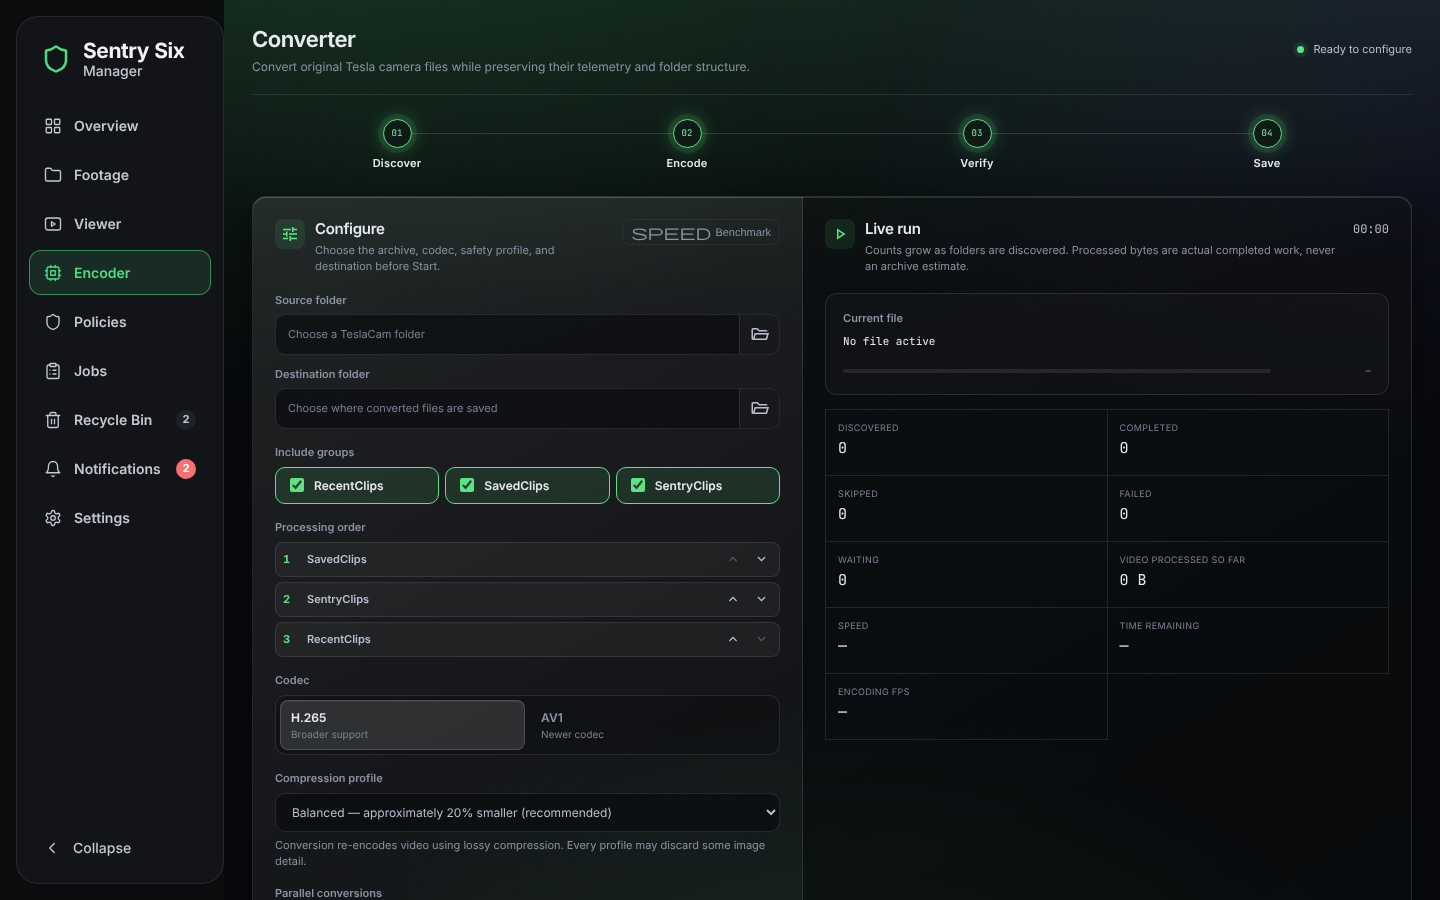
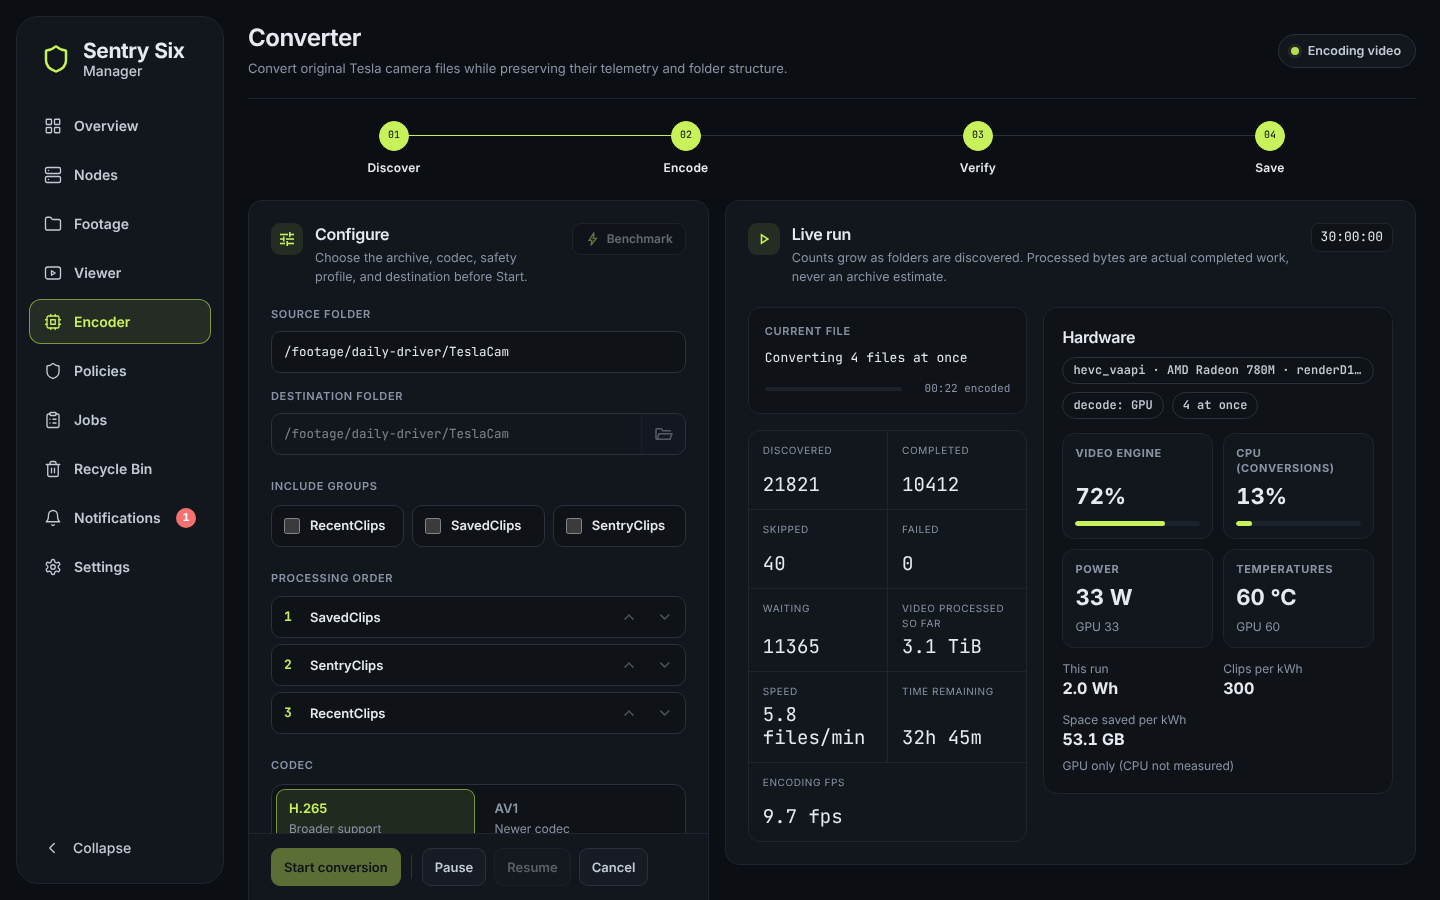
Encoder: one-line actions after a run, Live run without stats, steady highlights
- Retry failed after a run: where the five buttons do not fit on one line
  (the settings card beside a wide Live run, about 1290-1600px windows),
  the disabled Pause, Resume and Cancel step aside, so the bar keeps one
  line and its height.
- The server's numbers cannot be read (/api/stats fails): the run's
  progress takes the whole of Live run instead of leaving the panel's
  column empty; the panel and its column come back with the numbers.
- A highlight in the run's counters (Waiting, Time remaining, ...) is kept
  while updates arrive and the numbers catch up once it is gone; unchanged
  text is no longer rewritten.
- Safari on phones: the long Compression profile and Verification options
  no longer make the page scroll sideways.
- Docs: the README's Encoder picture shows a running conversion with the
  progress and the Hardware panel side by side; the plan and the mockup
  say the per-clip rows were removed and the panel moved.

diff --git a/test/screens.test.js b/test/screens.test.js
@@ -706,6 +706,57 @@ test('Hardware panel: never shorter while a job runs; back to its own height whe
   assert.equal(panel.style.minHeight, '700px');
 });
 
+test('Hardware panel: the server\'s numbers cannot be read: Live run gives its column to the progress until they can', async (t) => {
+  const { startHardwarePanel } = await hardware();
+  t.mock.timers.enable({ apis: ['setTimeout'] });
+  const classes = new Set();
+  const panel = { hidden: true, innerHTML: '', style: { minHeight: '' }, offsetHeight: 400, closest: () => null, parentElement: null, classList: { toggle: (name, on) => (on ? classes.add(name) : classes.delete(name)) } };
+  const doc = { visibilityState: 'visible', getElementById: (id) => (id === 'converterHardware' ? panel : null), addEventListener() {} };
+  const win = { location: { origin: 'https://nas' }, addEventListener() {}, innerWidth: 1440 };
+  let answer = { ok: false, status: 500 };
+  const fetchImpl = async () => {
+    if (answer === 'offline') throw new TypeError('Failed to fetch');
+    return answer;
+  };
+  const settle = async () => { for (let i = 0; i < 10; i++) await Promise.resolve(); };
+  const poll = async () => { t.mock.timers.tick(2000); await settle(); };
+  // before the first answer the column is kept for the panel
+  startHardwarePanel({ doc, win, fetchImpl });
+  assert.equal(classes.has('nd-hw-off'), false);
+  await settle();
+  assert.equal(panel.hidden, true);
+  assert.equal(classes.has('nd-hw-off'), true, 'a failed answer: the progress takes the width');
+  answer = 'offline';
+  await poll();
+  assert.equal(classes.has('nd-hw-off'), true);
+  // the numbers come back: the panel and its column with them
+  answer = { ok: true, json: async () => sample() };
+  await poll();
+  assert.equal(panel.hidden, false);
+  assert.equal(classes.has('nd-hw-off'), false);
+  // a failure later keeps the last numbers where they are
+  answer = { ok: false, status: 503 };
+  await poll();
+  assert.equal(panel.hidden, false);
+  assert.equal(classes.has('nd-hw-off'), false);
+  const css = fs.readFileSync(path.join(REPO, 'src/renderer/styles/encoderPage.css'), 'utf8');
+  assert.match(css, /@container live-run \(min-width: 620px\) \{[^@]*\.converter-live-split:has\(> \.nd-hw-off\[hidden\]\) \{ grid-template-columns: minmax\(0, 1fr\); \}/);
+});
+
+test('Encoder: after a run with failures the actions stay on one line; long options never widen a phone\'s page', () => {
+  const css = fs.readFileSync(path.join(REPO, 'src/renderer/styles/encoderPage.css'), 'utf8');
+  // Retry failed shows only after a run; where five buttons do not fit,
+  // the three that cannot be used then (Pause, Resume, Cancel) step aside
+  assert.match(css, /\n#converterRetry:disabled \{ display: none; \}/);
+  assert.match(css, /\n\.converter-actions \{ container: run-actions \/ inline-size; \}/);
+  assert.match(css, /@container run-actions \(max-width: 519px\) \{\s*\.converter-actions:has\(#converterRetry:not\(:disabled\)\) \.converter-button:disabled \{ display: none; \}/);
+  const page = fs.readFileSync(path.join(REPO, 'src/renderer/encoder.html'), 'utf8');
+  const actions = page.slice(page.indexOf('<div class="converter-actions">'), page.indexOf('</form>'));
+  for (const id of ['converterStart', 'converterPause', 'converterResume', 'converterCancel', 'converterRetry']) assert.match(actions, new RegExp(`id="${id}"`));
+  // Safari counts a long option's text as part of the page: the select clips it
+  assert.match(css, /\nselect\.converter-select \{[^}]*overflow: hidden;/);
+});
+
 test('Hardware panel: asks every 2 s only while it can be seen', async (t) => {
   const { startHardwarePanel } = await hardware();
   t.mock.timers.enable({ apis: ['setTimeout'] });

diff --git a/test/encoderControls.test.js b/test/encoderControls.test.js
@@ -20,13 +20,14 @@ function el(init = {}) {
   }, init);
 }
 
-async function controller({ jobConcurrency = 5 } = {}) {
+async function controller({ jobConcurrency = 5, extra = {} } = {}) {
   const { createFootageConverterController } = await import(MODULE);
   const elements = {
     groupOptions: [], codecOptions: [], profileOptions: [], outputOptions: [], pipelineStages: [], orderRows: [],
     autoEnabled: el(), autoInterval: el({ value: '60' }), autoWindowEnabled: el(), autoStart: el({ value: '1' }), autoEnd: el({ value: '6' }),
     autoOffPeak: el(), autoHoldManual: el(), autoKeepRunning: el(), autoLogin: el(), autoStatus: el(),
-    concurrency: el({ value: String(jobConcurrency) }), concurrencyCustom: el({ value: '12' }), concurrencyCustomRow: el(), startButton: el()
+    concurrency: el({ value: String(jobConcurrency) }), concurrencyCustom: el({ value: '12' }), concurrencyCustomRow: el(), startButton: el(),
+    ...extra
   };
   const sent = { auto: [], conc: [] };
   let autoState = { settings: { enabled: false, intervalMinutes: 60, window: null, holdManual: false, keepRunning: false, openAtLogin: false, config: null }, status: {} };
@@ -91,4 +92,43 @@ test('quick changes: the last choice is what the job ends with', async () => {
   elements.concurrency.fire('change');
   await settle(); await settle();
   assert.deepEqual(sent.conc.at(-1), ['job-1', 4]);
+});
+
+test('a highlighted counter keeps its number while the run goes on, and catches up once the highlight is gone', async () => {
+  const listeners = {};
+  let selection = { isCollapsed: true, rangeCount: 0 };
+  const doc = { addEventListener: (type, fn) => { (listeners[type] ||= []).push(fn); }, getSelection: () => selection };
+  const inside = { text: true };
+  let writes = 0;
+  let text = '0';
+  const waiting = el({ ownerDocument: doc, contains: (node) => node === inside });
+  Object.defineProperty(waiting, 'textContent', { get: () => text, set: (v) => { writes++; text = v; } });
+  const { snapshot, settle } = await controller({ extra: { countWaiting: waiting } });
+  const job = (revision, queued) => ({ jobId: 'job-1', revision, snapshot: { id: 'job-1', revision, state: 'encoding', config: { concurrency: 5 }, itemStateCounts: { queued }, items: [] } });
+  snapshot(job(20, 500));
+  await settle();
+  assert.equal(waiting.textContent, '500');
+  // the same number again: the text (and a highlight in it) is left alone
+  const before = writes;
+  snapshot(job(21, 500));
+  await settle();
+  assert.equal(writes, before, 'not rewritten');
+  // the reader highlights it; the next update has another number
+  selection = { isCollapsed: false, rangeCount: 1, getRangeAt: () => ({ commonAncestorContainer: inside }) };
+  snapshot(job(22, 480));
+  await settle();
+  assert.equal(waiting.textContent, '500', 'the highlight stays');
+  assert.equal(writes, before);
+  // the highlight is gone: the new number at once
+  selection = { isCollapsed: true, rangeCount: 0 };
+  listeners.selectionchange.forEach((fn) => fn());
+  assert.equal(waiting.textContent, '480', 'caught up at once');
+  // the mouse button held down on it (a highlight about to start)
+  listeners.pointerdown.forEach((fn) => fn({ button: 0, target: inside }));
+  snapshot(job(23, 470));
+  await settle();
+  assert.equal(waiting.textContent, '480');
+  listeners.pointerup.forEach((fn) => fn({}));
+  await settle();
+  assert.equal(waiting.textContent, '470');
 });

diff --git a/src/renderer/styles/encoderPage.css b/src/renderer/styles/encoderPage.css
@@ -371,6 +371,10 @@ select.converter-select {
     text-overflow: ellipsis;
     appearance: none;
     cursor: pointer;
+    /* Safari counts a long option's text past the box ("Quick — checks
+       streams, length, …") as part of the page, which then scrolls sideways
+       on phones */
+    overflow: hidden;
 }
 
 .converter-select:hover:not(:disabled):not(:focus-visible) { border-color: var(--fd-border-hover); }
@@ -785,6 +789,16 @@ select.converter-select {
 /* Retry failed only when there is something to retry */
 #converterRetry:disabled { display: none; }
 
+/* Retry failed comes only after a run, when Pause, Resume and Cancel cannot
+   be used. Where all five do not fit on one line (the settings card beside
+   a wide Live run: about 480px of buttons), those three step aside for it,
+   so the bar keeps its one line and its height. */
+.converter-actions { container: run-actions / inline-size; }
+
+@container run-actions (max-width: 519px) {
+    .converter-actions:has(#converterRetry:not(:disabled)) .converter-button:disabled { display: none; }
+}
+
 .converter-button-quiet { min-height: 32px; }
 .converter-action-divider { height: 24px; background: var(--fd-border-strong); }
 
@@ -795,7 +809,9 @@ select.converter-select {
 /* The progress (current file and the counters) and the Hardware panel: side
    by side when Live run is wide enough, so what is left shows without
    scrolling; else one under the other, the progress first. Each column keeps
-   its place while the other is empty (the panel before its first numbers). */
+   its place while the other is empty (the panel before its first numbers);
+   when the server's numbers cannot be read (nd-hw-off, hardwarePanel.js),
+   the progress takes the whole width until they can. */
 .converter-live-split {
     display: grid;
     grid-template-columns: minmax(0, 1fr);
@@ -806,6 +822,7 @@ select.converter-select {
 /* (the panel a little wider: its tiles are two to a row) */
 @container live-run (min-width: 620px) {
     .converter-live-split { grid-template-columns: minmax(0, 4fr) minmax(0, 5fr); }
+    .converter-live-split:has(> .nd-hw-off[hidden]) { grid-template-columns: minmax(0, 1fr); }
 }
 
 .converter-progress {
@@ -958,7 +975,9 @@ select.converter-select {
 
 /* --------------------------------------------------------------------------
    Hardware (scripts/features/hardwarePanel.js): what the run uses and what
-   it costs; the approved mockup, docs/plans/server-monitor-mock.js
+   it costs. Started from the approved mockup (docs/plans/server-monitor-mock.js);
+   since then, at the owner's request, it has no row per clip and sits beside
+   the run's progress instead of above it.
    -------------------------------------------------------------------------- */
 .nd-hw {
     min-width: 0;

diff --git a/src/renderer/scripts/features/footageConverter.js b/src/renderer/scripts/features/footageConverter.js
@@ -163,8 +163,54 @@ function selected(options, dataKey, fallback) {
     return options.find((entry) => entry.checked)?.dataset?.[dataKey] || fallback;
 }
 
+// Text being highlighted (or about to be, with the button held down on it)
+// keeps its words: the run's counters change every second or two, and a new
+// value would take the highlight away before it could be copied. The new
+// value waits and shows as soon as the highlight is gone.
+const heldText = new Map();
+const watchedDocuments = new WeakSet();
+let pressedNode = null;
+
+function highlighted(element) {
+    if (pressedNode && element.contains?.(pressedNode) === true) return true;
+    const selection = element.ownerDocument?.getSelection?.();
+    if (!selection || selection.isCollapsed || !selection.rangeCount) return false;
+    const range = selection.getRangeAt(0);
+    return element.contains?.(range.commonAncestorContainer) === true || range.intersectsNode?.(element) === true;
+}
+
+function releaseHeldText() {
+    for (const [element, text] of heldText) {
+        if (highlighted(element)) continue;
+        heldText.delete(element);
+        if (element.textContent !== text) element.textContent = text;
+    }
+}
+
+function watchHighlights(documentApi) {
+    if (!documentApi?.addEventListener || watchedDocuments.has(documentApi)) return;
+    watchedDocuments.add(documentApi);
+    documentApi.addEventListener('pointerdown', (event) => { pressedNode = event.button === 0 ? event.target : null; }, true);
+    for (const type of ['pointerup', 'pointercancel']) {
+        documentApi.addEventListener(type, () => {
+            pressedNode = null;
+            setTimeout(releaseHeldText, 0);
+        }, true);
+    }
+    documentApi.addEventListener('selectionchange', () => { if (!pressedNode) releaseHeldText(); });
+}
+
 function setText(element, value) {
-    if (element) element.textContent = value == null ? '' : String(value);
+    if (!element) return;
+    const text = value == null ? '' : String(value);
+    watchHighlights(element.ownerDocument);
+    if (highlighted(element)) {
+        heldText.set(element, text);
+        return;
+    }
+    heldText.delete(element);
+    // the same words leave the text (and a highlight in it) alone
+    if (element.textContent !== text) element.textContent = text;
 }
 
 function setHidden(element, hidden) {

diff --git a/src/renderer/scripts/features/hardwarePanel.js b/src/renderer/scripts/features/hardwarePanel.js
@@ -275,8 +275,16 @@ export function startHardwarePanel({ doc = document, win = window, fetchImpl = (
             last = html;
         }
         panel.hidden = !html;
-        if (html) hold();
+        if (html) {
+            unavailable(false);
+            hold();
+        }
     };
+    // Live run keeps the panel's column while it waits for the first answer.
+    // An answer with nothing to show (the server's numbers cannot be read)
+    // gives the column back to the run's progress, until a later poll has
+    // numbers again (encoderPage.css: .nd-hw-off).
+    const unavailable = (on) => panel.classList?.toggle?.('nd-hw-off', on);
     const catchUp = () => {
         if (waiting !== null && !selecting()) show(waiting);
     };
@@ -312,6 +320,7 @@ export function startHardwarePanel({ doc = document, win = window, fetchImpl = (
             clearTimeout(giveUp);
             busy = false;
         }
+        if (panel.hidden && waiting === null) unavailable(true);
         if (wanted()) timer = setTimeout(poll, POLL_MS);
     }
 

diff --git a/docs/plans/server-monitor-mock.js b/docs/plans/server-monitor-mock.js
@@ -1,4 +1,7 @@
 // Mockup only: injects sample "Server" and "Hardware" panels into the real pages.
+// The Hardware panel as first approved: the app's has no row per clip any more
+// (removed at the owner's request) and sits beside the run's progress
+// (docs/plans/server-monitor.md).
 const spark = (pts, w = 220, h = 40, color = 'var(--accent)') => {
   const max = Math.max(...pts), min = Math.min(...pts);
   const xy = pts.map((p, i) => `${(i / (pts.length - 1)) * w},${h - 3 - ((p - min) / (max - min || 1)) * (h - 6)}`).join(' ');

diff --git a/docs/plans/server-monitor.md b/docs/plans/server-monitor.md
@@ -9,7 +9,9 @@ Goal: one place in the app that shows what the server is doing, on any
 hardware, so nobody needs Glances, Netdata or other tools. Everything stays
 inside the one container; nothing leaves the server; no extra services.
 
-Mockup (sample numbers; markup and CSS in `server-monitor-mock.js`):
+Mockup (sample numbers; markup and CSS in `server-monitor-mock.js`; the
+Encoder panel as first approved, see the notes under "Encoder" for what
+changed since):
 
 ![Overview: Server section](server-monitor-overview.png)
 ![Encoder: Hardware panel](server-monitor-encoder.png)
@@ -42,6 +44,7 @@ thermal zone only for the GPU).
 - (Bottleneck hint: removed later at the owner's request; it flipped between "bottleneck" and "room to spare".)
 - Efficiency: kWh this run, clips per kWh, GB saved per kWh, cost so far.
 - One row per running clip: progress bar, fps, speed x realtime, bitrate, dropped/duplicated frames (from the ffmpeg `-progress` output jobService already reads).
+- (One row per running clip: removed later at the owner's request; the clips came and went every few seconds. The panel now sits beside the run's progress (current file and counters) instead of above it, so how many are left shows without scrolling. The mockup above still shows the first version.)
 - Benchmark: watts per level and a "most efficient" pick next to "fastest".
 - Jobs page: kWh and average W per finished run.
 
